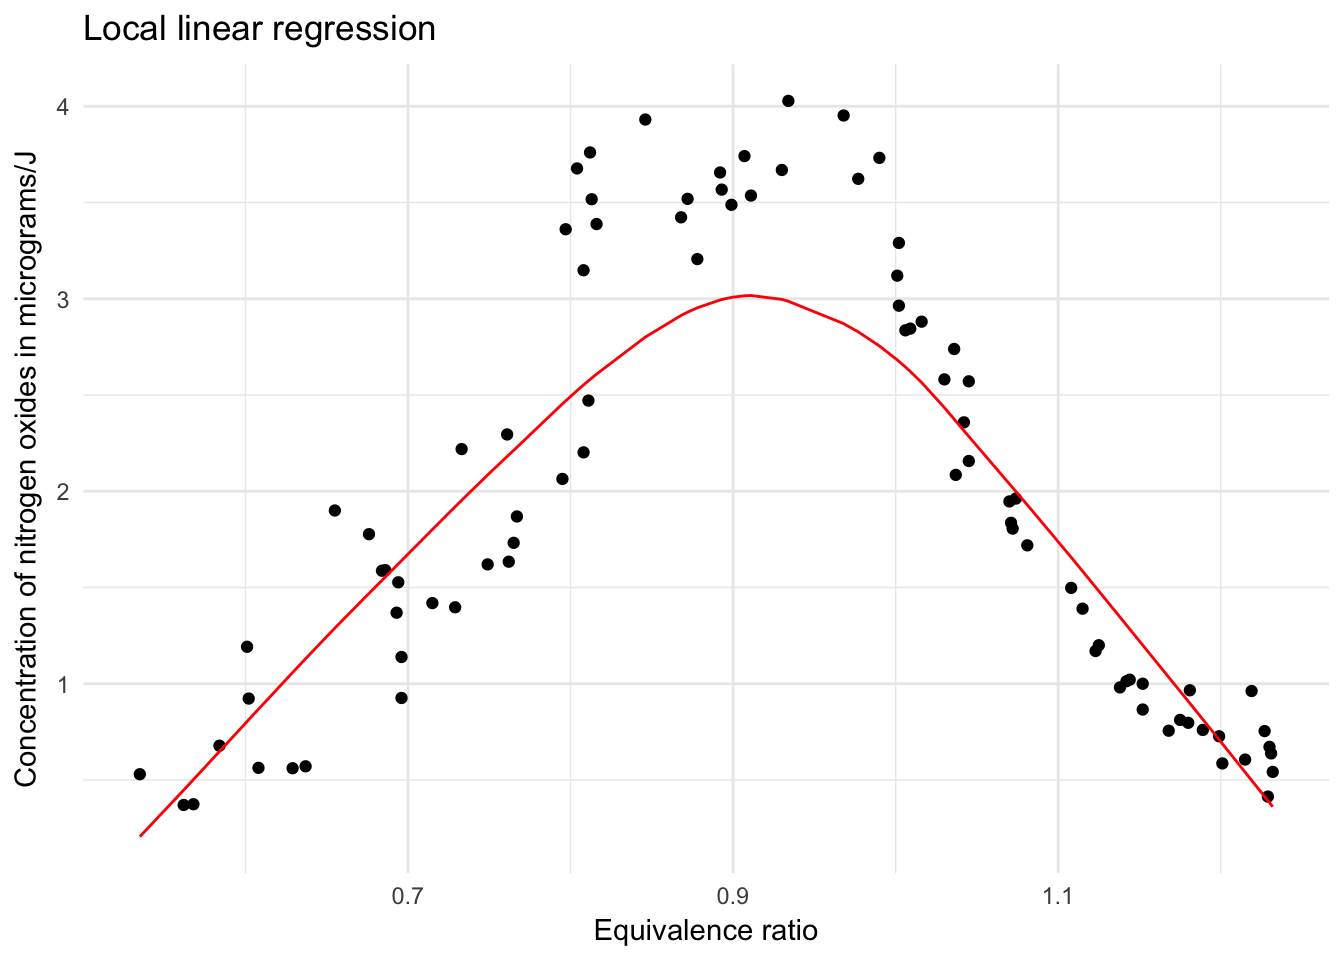
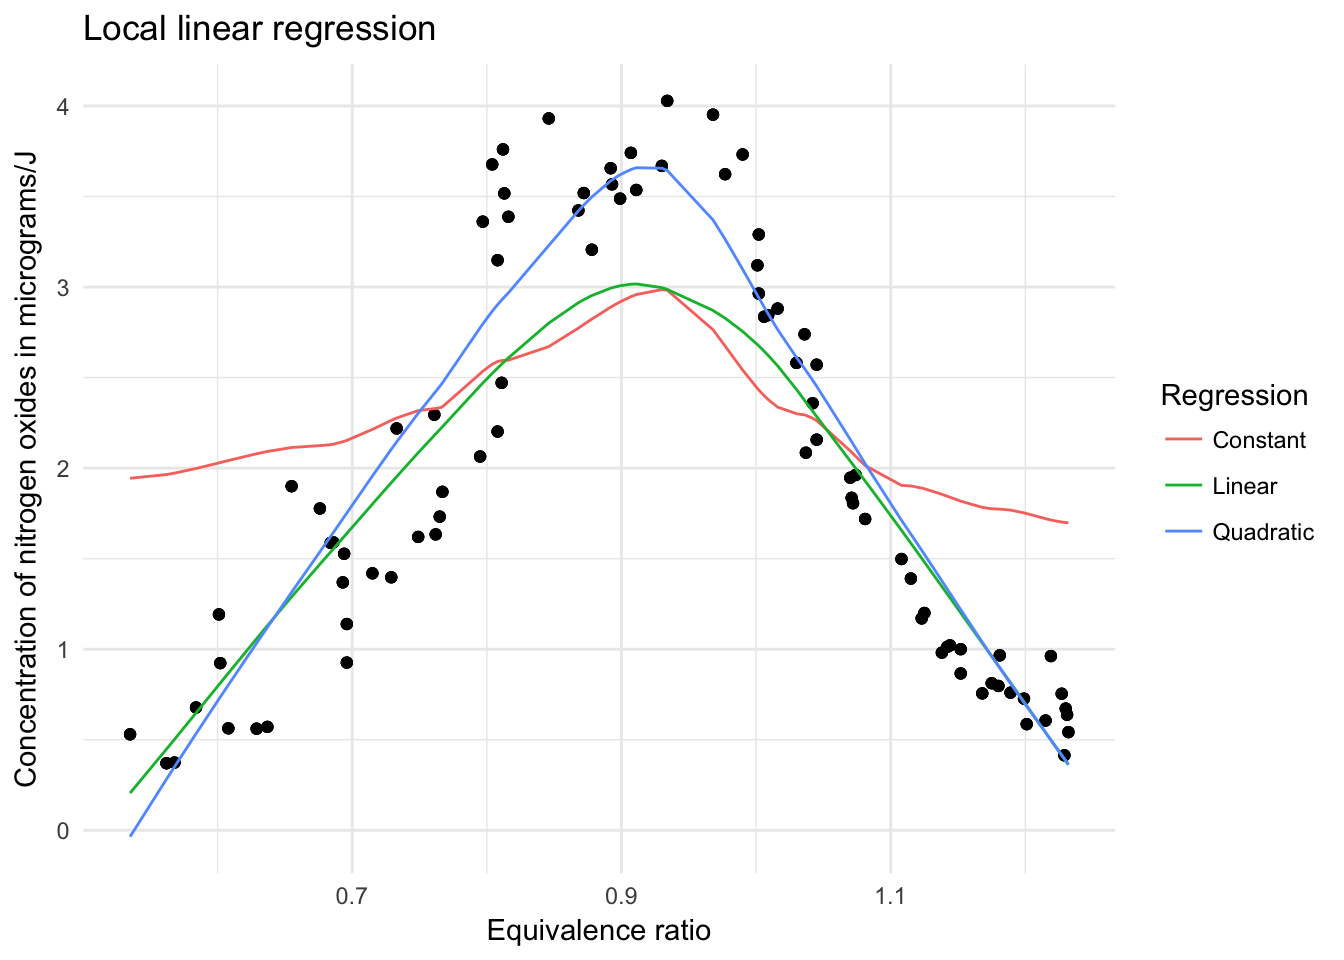
Update splines cv demo and add different regression types for LOESS (constant, linear, quadratic)

diff --git a/persp007_nonlinear.html b/persp007_nonlinear.html
@@ -378,6 +378,7 @@ div.tocify {
 <span class="kw">library</span>(knitr)
 <span class="kw">library</span>(splines)
 <span class="kw">library</span>(ISLR)
+<span class="kw">library</span>(lattice)
 
 <span class="kw">set.seed</span>(<span class="dv">1234</span>)
 <span class="kw">options</span>(<span class="dt">digits =</span> <span class="dv">3</span>)
@@ -963,11 +964,12 @@ biden_spline_pred &lt;-<span class="st"> </span><span class="kw">augment</span>(
 <span class="st">  </span><span class="kw">labs</span>(<span class="dt">x =</span> <span class="st">&quot;Age&quot;</span>,
        <span class="dt">y =</span> <span class="st">&quot;Wage&quot;</span>)</code></pre></div>
 <p><img src="persp007_nonlinear_files/figure-html/wage-1.png" width="672" /></p>
+<p>We can estimate <span class="math inline">\(10\)</span>-fold CV MSE for varying numbers of polynomial degrees and knots.</p>
 <div class="sourceCode"><pre class="sourceCode r"><code class="sourceCode r"><span class="co"># function to simplify things</span>
-wage_knots &lt;-<span class="st"> </span>function(data, <span class="dt">degree =</span> <span class="dv">3</span>, <span class="dt">df =</span> <span class="ot">NULL</span>){
+wage_spline_cv &lt;-<span class="st"> </span>function(data, <span class="dt">degree =</span> <span class="dv">3</span>, <span class="dt">df =</span> <span class="ot">NULL</span>){
   <span class="co"># estimate the model on each fold</span>
   models &lt;-<span class="st"> </span><span class="kw">map</span>(data$train, ~<span class="st"> </span><span class="kw">glm</span>(wage ~<span class="st"> </span><span class="kw">bs</span>(age, <span class="dt">df =</span> df, <span class="dt">degree =</span> degree),
-                                <span class="dt">data =</span> .))
+                                  <span class="dt">data =</span> .))
   
   <span class="co"># calculate mse for each test fold</span>
   models_mse &lt;-<span class="st"> </span><span class="kw">map2_dbl</span>(models, data$test, mse)
@@ -978,22 +980,52 @@ wage_knots &lt;-<span class="st"> </span>function(data, <span class="dt">degree 
 <span class="co"># fold the data</span>
 wage_kfold &lt;-<span class="st"> </span><span class="kw">crossv_kfold</span>(wage, <span class="dt">k =</span> <span class="dv">10</span>)
 
-<span class="co"># estimate mse for knots in 1:10</span>
-(wage_degree_mse &lt;-<span class="st"> </span><span class="kw">data_frame</span>(<span class="dt">knots =</span> <span class="dv">1</span>:<span class="dv">10</span>,
-                            <span class="dt">mse =</span> <span class="kw">map_dbl</span>(knots, ~<span class="st"> </span><span class="kw">wage_knots</span>(wage_kfold, <span class="dt">df =</span> .))))</code></pre></div>
-<pre><code>## # A tibble: 10 × 2
-##    knots   mse
-##    &lt;int&gt; &lt;dbl&gt;
-## 1      1  1595
-## 2      2  1595
-## 3      3  1595
-## 4      4  1595
-## 5      5  1593
-## 6      6  1594
-## 7      7  1595
-## 8      8  1595
-## 9      9  1594
-## 10    10  1594</code></pre>
+<span class="co"># estimate mse for polynomial degrees in 1:10</span>
+wage_degree_mse &lt;-<span class="st"> </span><span class="kw">data_frame</span>(<span class="dt">degrees =</span> <span class="dv">1</span>:<span class="dv">10</span>,
+                              <span class="dt">mse =</span> <span class="kw">map_dbl</span>(degrees, ~<span class="st"> </span><span class="kw">wage_spline_cv</span>(wage_kfold, <span class="dt">degree =</span> .,
+                                                                      <span class="dt">df =</span> <span class="dv">3</span> +<span class="st"> </span>.)))
+
+<span class="co"># estimate mse for degrees of freedom (aka knots)</span>
+wage_df_mse &lt;-<span class="st"> </span><span class="kw">data_frame</span>(<span class="dt">df =</span> <span class="dv">1</span>:<span class="dv">10</span>,
+                          <span class="dt">mse =</span> <span class="kw">map_dbl</span>(df, ~<span class="st"> </span><span class="kw">wage_spline_cv</span>(wage_kfold, <span class="dt">df =</span> <span class="dv">3</span> +<span class="st"> </span>.)))
+
+<span class="co"># graph the results</span>
+<span class="kw">ggplot</span>(wage_degree_mse, <span class="kw">aes</span>(degrees, mse)) +
+<span class="st">  </span><span class="kw">geom_point</span>() +
+<span class="st">  </span><span class="kw">geom_line</span>() +
+<span class="st">  </span><span class="kw">scale_x_continuous</span>(<span class="dt">breaks =</span> <span class="dv">1</span>:<span class="dv">10</span>) +
+<span class="st">  </span><span class="kw">labs</span>(<span class="dt">title =</span> <span class="st">&quot;Optimal number of degrees for wage spline regression&quot;</span>,
+       <span class="dt">subtitle =</span> <span class="st">&quot;Knots = 3&quot;</span>,
+       <span class="dt">x =</span> <span class="st">&quot;Highest-order polynomial&quot;</span>,
+       <span class="dt">y =</span> <span class="st">&quot;10-fold CV MSE&quot;</span>)</code></pre></div>
+<p><img src="persp007_nonlinear_files/figure-html/wage-cv-1.png" width="672" /></p>
+<div class="sourceCode"><pre class="sourceCode r"><code class="sourceCode r"><span class="kw">ggplot</span>(wage_df_mse, <span class="kw">aes</span>(df, mse)) +
+<span class="st">  </span><span class="kw">geom_point</span>() +
+<span class="st">  </span><span class="kw">geom_line</span>() +
+<span class="st">  </span><span class="kw">scale_x_continuous</span>(<span class="dt">breaks =</span> <span class="dv">1</span>:<span class="dv">10</span>) +
+<span class="st">  </span><span class="kw">labs</span>(<span class="dt">title =</span> <span class="st">&quot;Optimal number of knots for wage spline regression&quot;</span>,
+       <span class="dt">subtitle =</span> <span class="st">&quot;Highest-order polynomial = 3&quot;</span>,
+       <span class="dt">x =</span> <span class="st">&quot;Knots&quot;</span>,
+       <span class="dt">y =</span> <span class="st">&quot;10-fold CV MSE&quot;</span>)</code></pre></div>
+<p><img src="persp007_nonlinear_files/figure-html/wage-cv-2.png" width="672" /></p>
+<p>These results suggest the optimal number of polynomial degrees is 6, while the optimal number of knots is 2. The resulting model produced by these parameters is:</p>
+<div class="sourceCode"><pre class="sourceCode r"><code class="sourceCode r">wage_optim &lt;-<span class="st"> </span><span class="kw">glm</span>(wage ~<span class="st"> </span><span class="kw">bs</span>(age, <span class="dt">df =</span> <span class="dv">8</span>, <span class="dt">degree =</span> <span class="dv">6</span>), <span class="dt">data =</span> wage)
+
+<span class="kw">augment</span>(wage_optim, <span class="dt">newdata =</span> <span class="kw">data_grid</span>(wage, age)) %&gt;%
+<span class="st">  </span><span class="kw">mutate</span>(<span class="dt">.fitted_low =</span> .fitted -<span class="st"> </span><span class="fl">1.96</span> *<span class="st"> </span>.se.fit,
+         <span class="dt">.fitted_high =</span> .fitted +<span class="st"> </span><span class="fl">1.96</span> *<span class="st"> </span>.se.fit) %&gt;%
+<span class="st">  </span><span class="kw">ggplot</span>(<span class="kw">aes</span>(age, .fitted)) +
+<span class="st">  </span><span class="kw">geom_point</span>(<span class="dt">data =</span> wage, <span class="kw">aes</span>(<span class="dt">y =</span> wage), <span class="dt">alpha =</span> .<span class="dv">05</span>) +
+<span class="st">  </span><span class="kw">geom_line</span>() +
+<span class="st">  </span><span class="kw">geom_line</span>(<span class="kw">aes</span>(<span class="dt">y =</span> .fitted_low), <span class="dt">linetype =</span> <span class="dv">2</span>) +
+<span class="st">  </span><span class="kw">geom_line</span>(<span class="kw">aes</span>(<span class="dt">y =</span> .fitted_high), <span class="dt">linetype =</span> <span class="dv">2</span>) +
+<span class="st">  </span><span class="kw">geom_vline</span>(<span class="dt">xintercept =</span> <span class="kw">attr</span>(<span class="kw">bs</span>(wage$age, <span class="dt">df =</span> <span class="dv">8</span>, <span class="dt">degree =</span> <span class="dv">6</span>), <span class="st">&quot;knots&quot;</span>),
+             <span class="dt">linetype =</span> <span class="dv">2</span>, <span class="dt">color =</span> <span class="st">&quot;blue&quot;</span>) +
+<span class="st">  </span><span class="kw">labs</span>(<span class="dt">title =</span> <span class="st">&quot;Sixth-order polynomial spline of wage&quot;</span>,
+       <span class="dt">subtitle =</span> <span class="st">&quot;Knots = 2&quot;</span>,
+       <span class="dt">x =</span> <span class="st">&quot;Age&quot;</span>,
+       <span class="dt">y =</span> <span class="st">&quot;Wage&quot;</span>)</code></pre></div>
+<p><img src="persp007_nonlinear_files/figure-html/wage-optimal-mod-1.png" width="672" /></p>
 </div>
 </div>
 <div id="local-regression" class="section level1">
@@ -1004,11 +1036,11 @@ wage_kfold &lt;-<span class="st"> </span><span class="kw">crossv_kfold</span>(wa
 <ol style="list-style-type: decimal">
 <li>Gather the fraction <span class="math inline">\(s = \frac{k}{n}\)</span> of training points whose <span class="math inline">\(x_i\)</span> are closest to <span class="math inline">\(x_0\)</span>.</li>
 <li>Assign a weight <span class="math inline">\(K_{i0} = K(x_i, x_0)\)</span> to each point in the neighborhood, so that the point furthest from <span class="math inline">\(x_0\)</span> has a weight of 0, and the closest has the highest weight. All but these <span class="math inline">\(k\)</span> nearest neighbors get a weight of 0.</li>
-<li>Fit a <strong>weighted least squares regression</strong> of the <span class="math inline">\(y_i\)</span> on the <span class="math inline">\(x_i\)</span> using the aformentioned weights. Weighted least squares allows us to adjust the variance for each observation <span class="math inline">\(\sigma_i^2\)</span> by weights <span class="math inline">\(w_i\)</span>. This is useful in correcting for heterscedasticity in OLS, and also allows us to estimate the local regression.</li>
+<li>Fit a <strong>weighted least squares regression</strong> of the <span class="math inline">\(y_i\)</span> on the <span class="math inline">\(x_i\)</span> using the aformentioned weights. Weighted least squares allows us to adjust the variance for each observation <span class="math inline">\(\sigma_i^2\)</span> by weights <span class="math inline">\(w_i\)</span>. This is useful in correcting for heteroscedasticity in OLS, and also allows us to estimate the local regression.</li>
 <li>The fitted value at <span class="math inline">\(x_0\)</span> is given by <span class="math inline">\(\hat{f}(x_0) = \hat{\beta}_0 + \hat{\beta}_1 x_0\)</span></li>
 </ol>
 <p>To obtain the local regression fit at a new value of <span class="math inline">\(x_0\)</span>, we have to perform this same procedure again adjusting the weights for the new region of data.</p>
-<p>Here is an example of a local linear regression (highest degree equal to 1) on the <code>ethanol</code> dataset in the <code>lattice</code> package:</p>
+<p>Here is an example of a local linear regression on the <code>ethanol</code> dataset in the <code>lattice</code> package:</p>
 <p><img src="persp007_nonlinear_files/figure-html/loess-1.png" width="672" /></p>
 <p>The LOESS is built up point-by-point:</p>
 <video width="672"  controls loop>
@@ -1029,13 +1061,6 @@ video of chunk loess_span
 <div id="generalized-additive-models" class="section level1">
 <h1>Generalized additive models</h1>
 </div>
-<div id="to-do" class="section level1">
-<h1>To do</h1>
-<ul>
-<li>Finish the regression splines demo</li>
-<li></li>
-</ul>
-</div>
 <div id="acknowledgements" class="section level1 toc-ignore">
 <h1>Acknowledgements</h1>
 <ul>
@@ -1053,67 +1078,60 @@ video of chunk loess_span
 ##  language (EN)                        
 ##  collate  en_US.UTF-8                 
 ##  tz       America/Chicago             
-##  date     2017-02-21                  
+##  date     2017-02-22                  
 ## 
-##  package      * version date       source                           
-##  assertthat     0.1     2013-12-06 CRAN (R 3.3.0)                   
-##  backports      1.0.5   2017-01-18 CRAN (R 3.3.2)                   
-##  broom        * 0.4.2   2017-02-13 CRAN (R 3.3.2)                   
-##  codetools      0.2-15  2016-10-05 CRAN (R 3.3.2)                   
-##  colorspace     1.3-2   2016-12-14 CRAN (R 3.3.2)                   
-##  DBI            0.5-1   2016-09-10 CRAN (R 3.3.0)                   
-##  devtools       1.12.0  2016-06-24 CRAN (R 3.3.0)                   
-##  digest         0.6.12  2017-01-27 CRAN (R 3.3.2)                   
-##  dplyr        * 0.5.0   2016-06-24 CRAN (R 3.3.0)                   
-##  evaluate       0.10    2016-10-11 CRAN (R 3.3.0)                   
-##  forcats        0.2.0   2017-01-23 CRAN (R 3.3.2)                   
-##  foreign        0.8-67  2016-09-13 CRAN (R 3.3.2)                   
-##  gganimate    * 0.1     2016-11-11 Github (dgrtwo/gganimate@26ec501)
-##  ggplot2      * 2.2.1   2016-12-30 CRAN (R 3.3.2)                   
-##  gtable         0.2.0   2016-02-26 CRAN (R 3.3.0)                   
-##  haven          1.0.0   2016-09-23 cran (@1.0.0)                    
-##  hms            0.3     2016-11-22 CRAN (R 3.3.2)                   
-##  htmltools      0.3.5   2016-03-21 CRAN (R 3.3.0)                   
-##  httr           1.2.1   2016-07-03 CRAN (R 3.3.0)                   
-##  ISLR         * 1.0     2013-06-11 CRAN (R 3.3.0)                   
-##  jsonlite       1.2     2016-12-31 CRAN (R 3.3.2)                   
-##  knitr        * 1.15.1  2016-11-22 cran (@1.15.1)                   
-##  labeling       0.3     2014-08-23 CRAN (R 3.3.0)                   
-##  lattice      * 0.20-34 2016-09-06 CRAN (R 3.3.2)                   
-##  lazyeval       0.2.0   2016-06-12 CRAN (R 3.3.0)                   
-##  lubridate      1.6.0   2016-09-13 CRAN (R 3.3.0)                   
-##  magrittr       1.5     2014-11-22 CRAN (R 3.3.0)                   
-##  Matrix         1.2-8   2017-01-20 CRAN (R 3.3.2)                   
-##  MatrixModels * 0.4-1   2015-08-22 CRAN (R 3.3.0)                   
-##  memoise        1.0.0   2016-01-29 CRAN (R 3.3.0)                   
-##  mnormt         1.5-5   2016-10-15 CRAN (R 3.3.0)                   
-##  modelr       * 0.1.0   2016-08-31 CRAN (R 3.3.0)                   
-##  munsell        0.4.3   2016-02-13 CRAN (R 3.3.0)                   
-##  nlme           3.1-131 2017-02-06 CRAN (R 3.3.2)                   
-##  plyr           1.8.4   2016-06-08 CRAN (R 3.3.0)                   
-##  psych          1.6.12  2017-01-08 CRAN (R 3.3.2)                   
-##  purrr        * 0.2.2   2016-06-18 CRAN (R 3.3.0)                   
-##  quantreg     * 5.29    2016-09-04 CRAN (R 3.3.0)                   
-##  R6             2.2.0   2016-10-05 CRAN (R 3.3.0)                   
-##  rcfss        * 0.1.3   2017-02-16 local                            
-##  Rcpp           0.12.9  2017-01-14 CRAN (R 3.3.2)                   
-##  readr        * 1.0.0   2016-08-03 CRAN (R 3.3.0)                   
-##  readxl         0.1.1   2016-03-28 CRAN (R 3.3.0)                   
-##  reshape2       1.4.2   2016-10-22 CRAN (R 3.3.0)                   
-##  rmarkdown      1.3     2016-12-21 CRAN (R 3.3.2)                   
-##  rprojroot      1.2     2017-01-16 CRAN (R 3.3.2)                   
-##  rvest          0.3.2   2016-06-17 CRAN (R 3.3.0)                   
-##  scales         0.4.1   2016-11-09 CRAN (R 3.3.1)                   
-##  SparseM      * 1.74    2016-11-10 CRAN (R 3.3.2)                   
-##  stringi        1.1.2   2016-10-01 CRAN (R 3.3.0)                   
-##  stringr        1.1.0   2016-08-19 cran (@1.1.0)                    
-##  tibble       * 1.2     2016-08-26 cran (@1.2)                      
-##  tidyr        * 0.6.1   2017-01-10 CRAN (R 3.3.2)                   
-##  tidyverse    * 1.1.1   2017-01-27 CRAN (R 3.3.2)                   
-##  titanic      * 0.1.0   2015-08-31 CRAN (R 3.3.0)                   
-##  withr          1.0.2   2016-06-20 CRAN (R 3.3.0)                   
-##  xml2           1.1.1   2017-01-24 CRAN (R 3.3.2)                   
-##  yaml           2.1.14  2016-11-12 cran (@2.1.14)</code></pre>
+##  package    * version date       source        
+##  assertthat   0.1     2013-12-06 CRAN (R 3.3.0)
+##  backports    1.0.5   2017-01-18 CRAN (R 3.3.2)
+##  broom      * 0.4.2   2017-02-13 CRAN (R 3.3.2)
+##  colorspace   1.3-2   2016-12-14 CRAN (R 3.3.2)
+##  DBI          0.5-1   2016-09-10 CRAN (R 3.3.0)
+##  devtools     1.12.0  2016-06-24 CRAN (R 3.3.0)
+##  digest       0.6.12  2017-01-27 CRAN (R 3.3.2)
+##  dplyr      * 0.5.0   2016-06-24 CRAN (R 3.3.0)
+##  evaluate     0.10    2016-10-11 CRAN (R 3.3.0)
+##  forcats      0.2.0   2017-01-23 CRAN (R 3.3.2)
+##  foreign      0.8-67  2016-09-13 CRAN (R 3.3.2)
+##  ggplot2    * 2.2.1   2016-12-30 CRAN (R 3.3.2)
+##  gtable       0.2.0   2016-02-26 CRAN (R 3.3.0)
+##  haven        1.0.0   2016-09-23 cran (@1.0.0) 
+##  hms          0.3     2016-11-22 CRAN (R 3.3.2)
+##  htmltools    0.3.5   2016-03-21 CRAN (R 3.3.0)
+##  httr         1.2.1   2016-07-03 CRAN (R 3.3.0)
+##  ISLR       * 1.0     2013-06-11 CRAN (R 3.3.0)
+##  jsonlite     1.2     2016-12-31 CRAN (R 3.3.2)
+##  knitr      * 1.15.1  2016-11-22 cran (@1.15.1)
+##  lattice    * 0.20-34 2016-09-06 CRAN (R 3.3.2)
+##  lazyeval     0.2.0   2016-06-12 CRAN (R 3.3.0)
+##  lubridate    1.6.0   2016-09-13 CRAN (R 3.3.0)
+##  magrittr     1.5     2014-11-22 CRAN (R 3.3.0)
+##  memoise      1.0.0   2016-01-29 CRAN (R 3.3.0)
+##  mnormt       1.5-5   2016-10-15 CRAN (R 3.3.0)
+##  modelr     * 0.1.0   2016-08-31 CRAN (R 3.3.0)
+##  munsell      0.4.3   2016-02-13 CRAN (R 3.3.0)
+##  nlme         3.1-131 2017-02-06 CRAN (R 3.3.2)
+##  plyr         1.8.4   2016-06-08 CRAN (R 3.3.0)
+##  psych        1.6.12  2017-01-08 CRAN (R 3.3.2)
+##  purrr      * 0.2.2   2016-06-18 CRAN (R 3.3.0)
+##  R6           2.2.0   2016-10-05 CRAN (R 3.3.0)
+##  rcfss      * 0.1.3   2017-02-16 local         
+##  Rcpp         0.12.9  2017-01-14 CRAN (R 3.3.2)
+##  readr      * 1.0.0   2016-08-03 CRAN (R 3.3.0)
+##  readxl       0.1.1   2016-03-28 CRAN (R 3.3.0)
+##  reshape2     1.4.2   2016-10-22 CRAN (R 3.3.0)
+##  rmarkdown    1.3     2016-12-21 CRAN (R 3.3.2)
+##  rprojroot    1.2     2017-01-16 CRAN (R 3.3.2)
+##  rvest        0.3.2   2016-06-17 CRAN (R 3.3.0)
+##  scales       0.4.1   2016-11-09 CRAN (R 3.3.1)
+##  stringi      1.1.2   2016-10-01 CRAN (R 3.3.0)
+##  stringr      1.1.0   2016-08-19 cran (@1.1.0) 
+##  tibble     * 1.2     2016-08-26 cran (@1.2)   
+##  tidyr      * 0.6.1   2017-01-10 CRAN (R 3.3.2)
+##  tidyverse  * 1.1.1   2017-01-27 CRAN (R 3.3.2)
+##  titanic    * 0.1.0   2015-08-31 CRAN (R 3.3.0)
+##  withr        1.0.2   2016-06-20 CRAN (R 3.3.0)
+##  xml2         1.1.1   2017-01-24 CRAN (R 3.3.2)
+##  yaml         2.1.14  2016-11-12 cran (@2.1.14)</code></pre>
 </div>
 
 <p>This work is licensed under the  <a href="http://creativecommons.org/licenses/by-nc/4.0/">CC BY-NC 4.0 Creative Commons License</a>.</p>
